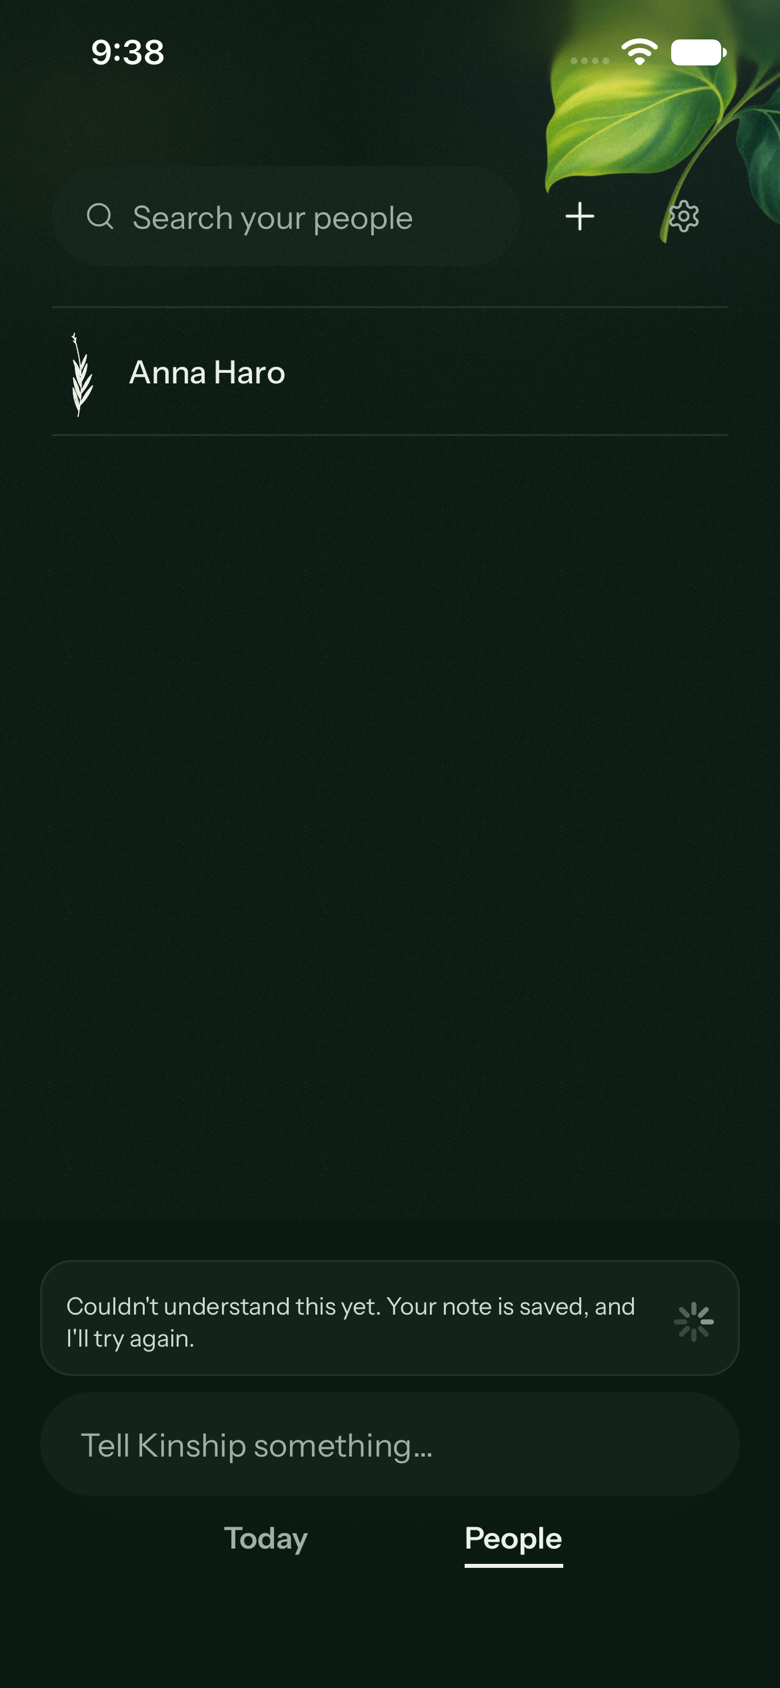
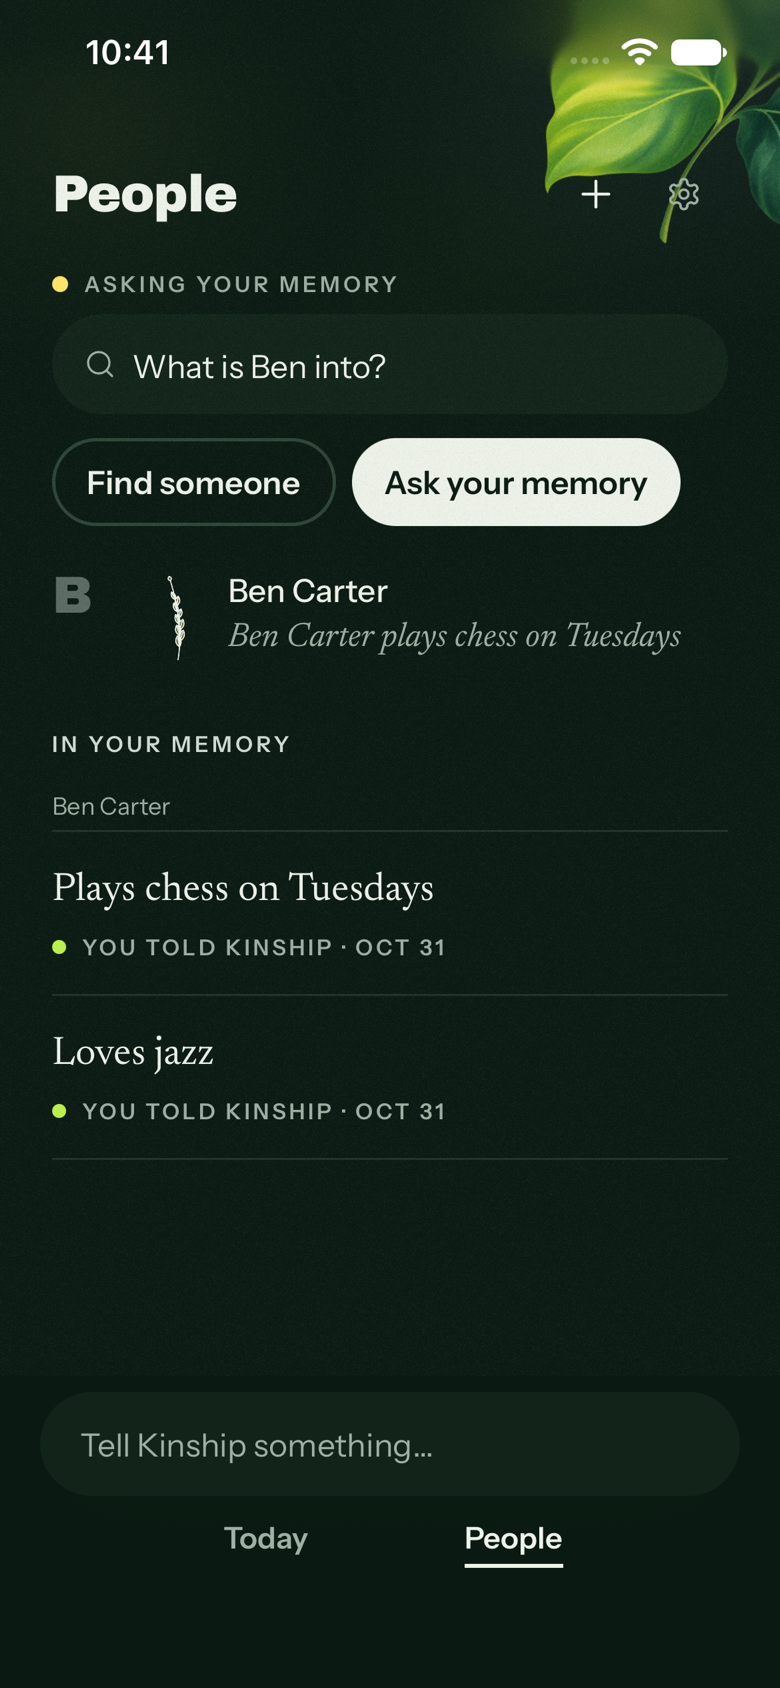
WS-2 redesign: native pass fixes, wireframe comparisons, before/after captures
From the Release walk on the iPhone 17e: the sheets' bleeds are clipped so the
bloom never crosses into the ledger; the People title sits in its own box so
it never clips at accessibility sizes; the person page's name sits under the
photo's edge rather than across it. Monochrome wireframe pairs for the five
surfaces (docs/product/screens/electric-garden/wireframes/) and the reskin-era
captures kept under before/ beside the new ones.

diff --git a/src/features/person/PortraitView.tsx b/src/features/person/PortraitView.tsx
@@ -312,7 +312,8 @@ export function PortraitView(props: PortraitViewProps) {
   return (
     <Screen onBack={props.onBack} footer={footer} scrollRef={scroll} art={pageArt}>
       {photo ? (
-        <View style={{ height: photoH - 40 * k, marginTop: -TOUCH, alignItems: "flex-end", marginRight: -GUTTER / 2 }}>
+        // The name sits just under the photo's edge, never across it (ink on a dark photo did not read).
+        <View style={{ height: photoH - 6 * k, marginTop: -TOUCH, alignItems: "flex-end", marginRight: -GUTTER / 2 }}>
           <FluidPhoto uri={photo} width={photoW} height={photoH} label={`Photo of ${first}`} />
           <Botanical art="leaf" width={128} top={134} left={58} rotate={-34} />
         </View>

diff --git a/src/features/today/MomentDetailSheet.tsx b/src/features/today/MomentDetailSheet.tsx
@@ -81,7 +81,7 @@ export function MomentDetailSheet({ detail, onDismiss, onMessage, onCall, onPers
   const photoW = Math.round(width * 0.46);
   const photoH = Math.round(photoW * artTokens.photo.aspect);
   const bleed = detail ? (
-    <View style={{ height: photoUri ? photoH + space.l : 150 }}>
+    <View style={{ height: photoUri ? photoH + space.l : 150, overflow: "hidden" }}>
       <DawnWash kind={kind} height={photoUri ? photoH + space.x3 : 220} />
       {kind === "joyful" ? <Botanical art="bloom" width={240} top={-70} right={-60} /> : null}
       {kind === "quiet" ? <Botanical art="leaf" width={150} top={-20} right={-50} rotate={24} dim /> : null}

diff --git a/src/features/people/PeopleView.tsx b/src/features/people/PeopleView.tsx
@@ -135,7 +135,8 @@ export function PeopleView({
     <Screen art={art}>
       {/* The masthead. */}
       <View style={{ flexDirection: "row", alignItems: "center", paddingTop: space.m }}>
-        <Title style={{ flex: 1 }}>{PEOPLE_COPY.title}</Title>
+        {/* In its own box: a Text given flex in a row clips at the largest text sizes. */}
+        <View style={{ flex: 1 }}><Title>{PEOPLE_COPY.title}</Title></View>
         <IconButton label="Add someone" onPress={() => setAdding(query.trim())}>
           <Plus color={p.ink} size={size.iconLarge} strokeWidth={1.8} />
         </IconButton>

diff --git a/src/features/tell/TellSheet.tsx b/src/features/tell/TellSheet.tsx
@@ -31,7 +31,7 @@ export function TellSheet({ person, onClose }: { person: { id: string; name: str
       onDismiss={onClose}
       label={person ? `Tell Kinship about ${person.name}` : "Tell Kinship"}
       bleed={(
-        <View style={{ height: 84 }}>
+        <View style={{ height: 84, overflow: "hidden" }}>
           <DawnWash kind="warm" height={150} />
           <Botanical art="leaf" width={130} top={-36} right={-56} rotate={24} dim />
         </View>

diff --git a/src/features/today/HandoffSheet.tsx b/src/features/today/HandoffSheet.tsx
@@ -37,7 +37,7 @@ export function HandoffSheet(props: HandoffSheetProps) {
   const p = usePalette();
   const [first, ...others] = props.channels;
   const bleed = (
-    <View style={{ height: 96 }}>
+    <View style={{ height: 96, overflow: "hidden" }}>
       <DawnWash kind="quiet" height={160} />
       <Botanical art="leaf" width={140} top={-30} right={-50} rotate={24} dim />
     </View>

diff --git a/docs/product/screens/electric-garden/wireframes/README.md b/docs/product/screens/electric-garden/wireframes/README.md
@@ -1,0 +1,12 @@
+# Electric Garden: monochrome structural wireframes
+
+These are monochrome structural comparisons for PR #71 (FD-30b redesign).
+Colour, art and typography are stripped out so only hierarchy and layout remain.
+Each file is 820x720 and shows BEFORE (left) and AFTER (right), with one caption line.
+They show structure only; they are not visual design and not evidence of readiness.
+
+- `moment-detail.svg`: stacked sheet to a composition (presence, eyebrow, statement, ledger, one primary)
+- `today.svg`: the moment gains human context; the week becomes a dated ledger
+- `person.svg`: four identical sections become four kinds
+- `people.svg`: search-and-rows becomes two doors (find / ask) and a lettered index
+- `tell.svg`: hairline rows and a bordered box become ruled ledgers; one primary action
